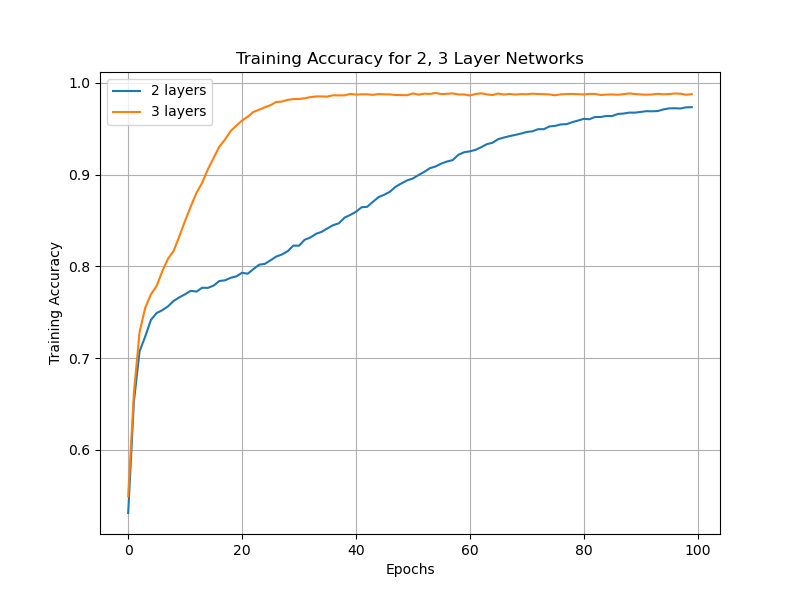
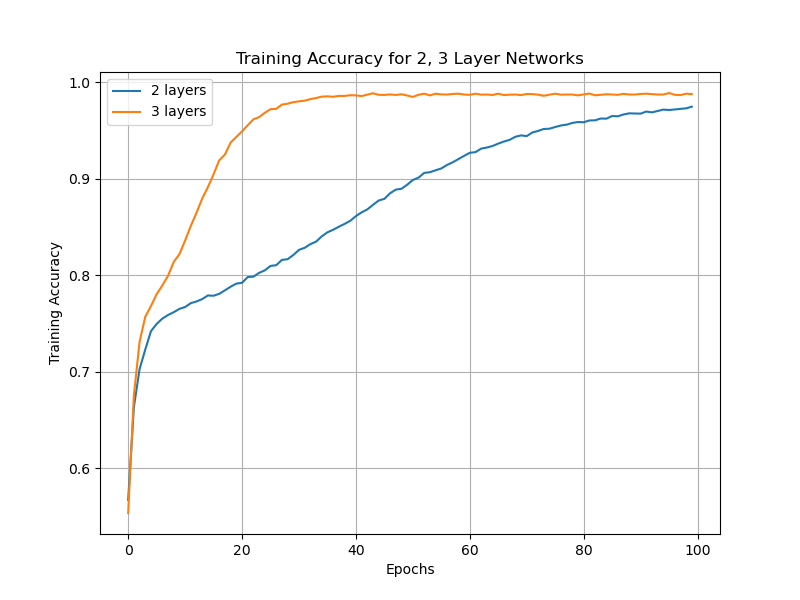
DAN Model implementaion

diff --git a/main.py b/main.py
@@ -11,7 +11,7 @@ import argparse
 import matplotlib.pyplot as plt
 from torch.utils.data import DataLoader
 from BOWmodels import SentimentDatasetBOW, NN2BOW, NN3BOW
-from DANmodels import SentimentDatasetDAN, NN1DAN
+from DANmodels import SentimentDatasetDAN, NN1DAN, NNcustomDAN
 
 
 # Training function
@@ -148,7 +148,7 @@ def main():
     elif args.model == "DAN":
         
         # Load word embeddings
-        word_embeddings = read_word_embeddings("data/glove.6B.50d-relativized.txt")
+        word_embeddings = read_word_embeddings("data/glove.6B.300d-relativized.txt")
         #word_embeddings = read_word_embeddings("data/glove.6B.300d-relativized.txt")
         
         train_data = SentimentDatasetDAN("data/train.txt", word_embeddings)
@@ -156,53 +156,13 @@ def main():
         train_loader = DataLoader(train_data, batch_size=16, shuffle=True)
         test_loader = DataLoader(dev_data, batch_size=16, shuffle=False)
         
-        print(train_data)
-        print(train_loader)
-        
-        # Train and evaluate NN1
+        # Train and evaluate NN
         start_time = time.time()
-        print('\n1 layer:')
-        nn1_train_accuracy, nn1_test_accuracy = experiment(NN1DAN(word_embeddings.get_embedding_length(), 100, 1, word_embeddings), train_loader, test_loader)
-
-
+        print('\n2 layers:')
+        nn1_train_accuracy, nn1_test_accuracy = experiment(NN1DAN(word_embeddings.get_embedding_length(), 200, 1, word_embeddings), train_loader, test_loader)
         
-        
-        
-        
-        
-        
-        
-        
-        
-        
-        
-        
-        
-        
-        
-        
-        '''
-        # Load word embeddings
-        word_embeddings = read_word_embeddings("data/glove.6B.50d-relativized.txt")
-        
-        # Create the dataset
-        train_data = SentimentDatasetDAN("data/train.txt", word_embeddings)
-        dev_data = SentimentDatasetDAN("data/dev.txt", word_embeddings)
-        
-        # Create DataLoaders
-        train_loader = DataLoader(train_data, batch_size=16, shuffle=True)
-        test_loader = DataLoader(dev_data, batch_size=16, shuffle=False)
-        
-        # Initialize the DAN model
-        model = NN1DAN(embedding_dim=word_embeddings.get_embedding_length(), hidden_dim=100, output_dim=1, word_embeddings=word_embeddings)
-
-        # Train and evaluate the DAN model
-        print('\nTraining DAN Model:')
-        dan_train_accuracy, dan_test_accuracy = experiment(model, train_loader, test_loader)
-
-        # Optionally plot training accuracy for DAN
         plt.figure(figsize=(8, 6))
-        plt.plot(dan_train_accuracy, label='DAN Training Accuracy')
+        plt.plot(nn1_train_accuracy, label='DAN Training Accuracy')
         plt.xlabel('Epochs')
         plt.ylabel('Training Accuracy')
         plt.title('Training Accuracy for DAN')
@@ -216,7 +176,7 @@ def main():
 
         # Plot the testing accuracy for DAN
         plt.figure(figsize=(8, 6))
-        plt.plot(dan_test_accuracy, label='DAN Testing Accuracy')
+        plt.plot(nn1_test_accuracy, label='DAN Testing Accuracy')
         plt.xlabel('Epochs')
         plt.ylabel('Dev Accuracy')
         plt.title('Dev Accuracy for DAN')
@@ -227,8 +187,49 @@ def main():
         dan_testing_accuracy_file = 'dan_dev_accuracy.png'
         plt.savefig(dan_testing_accuracy_file)
         print(f"DAN Dev accuracy plot saved as {dan_testing_accuracy_file}\n\n")
+                  
+    elif args.model == "SUBWORDDAN":
+        # Load word embeddings
+        word_embeddings = read_word_embeddings("data/glove.6B.300d-relativized.txt")
+        #word_embeddings = read_word_embeddings("data/glove.6B.300d-relativized.txt")
         
-        '''
+        train_data = SentimentDatasetDAN("data/train.txt", word_embeddings)
+        dev_data = SentimentDatasetDAN("data/dev.txt", word_embeddings)
+        train_loader = DataLoader(train_data, batch_size=16, shuffle=True)
+        test_loader = DataLoader(dev_data, batch_size=16, shuffle=False)
+        
+        # Train and evaluate NN
+        start_time = time.time()
+        print('\n3 layers:')
+        nn1_train_accuracy, nn1_test_accuracy = experiment(NNcustomDAN(word_embeddings.get_embedding_length(), 300, 1, word_embeddings), train_loader, test_loader)
+        
+        plt.figure(figsize=(8, 6))
+        plt.plot(nn1_train_accuracy, label='DAN Training Accuracy')
+        plt.xlabel('Epochs')
+        plt.ylabel('Training Accuracy')
+        plt.title('Training Accuracy for DAN')
+        plt.legend()
+        plt.grid()
+
+        # Save the training accuracy figure
+        dan_training_accuracy_file = 'dan_train_accuracy.png'
+        plt.savefig(dan_training_accuracy_file)
+        print(f"\n\nDAN Training accuracy plot saved as {dan_training_accuracy_file}")
+
+        # Plot the testing accuracy for DAN
+        plt.figure(figsize=(8, 6))
+        plt.plot(nn1_test_accuracy, label='DAN Testing Accuracy')
+        plt.xlabel('Epochs')
+        plt.ylabel('Dev Accuracy')
+        plt.title('Dev Accuracy for DAN')
+        plt.legend()
+        plt.grid()
+
+        # Save the testing accuracy figure
+        dan_testing_accuracy_file = 'dan_dev_accuracy.png'
+        plt.savefig(dan_testing_accuracy_file)
+        print(f"DAN Dev accuracy plot saved as {dan_testing_accuracy_file}\n\n")
+
 
 if __name__ == "__main__":
     main()

diff --git a/DANmodels.py b/DANmodels.py
@@ -8,10 +8,8 @@ from torch.utils.data import Dataset
 
 class SentimentDatasetDAN(Dataset):
     def __init__(self, infile, word_embeddings, train=True):
-        # Read the sentiment examples from the input file
         self.examples = read_sentiment_examples(infile)
         
-        # Extract sentences and labels from the examples
         self.sentences = [" ".join(ex.words) for ex in self.examples]
         self.labels = [ex.label for ex in self.examples]
         
@@ -19,19 +17,17 @@ class SentimentDatasetDAN(Dataset):
         for sentence in self.sentences:
             # Split sentence into words and get their embeddings
             sentence_vectors = []
-            for word in sentence.split():  # Split sentence into words
-                vector = word_embeddings.get_embedding(word)  # Get embedding for each word
-                sentence_vectors.append(vector)  # Append the vector to the list
+            for word in sentence.split():  
+                vector = word_embeddings.get_embedding(word)  
+                sentence_vectors.append(vector)  
 
-            # Convert the list of numpy arrays to a tensor
             stacked_vectors = torch.stack([torch.FloatTensor(vec) for vec in sentence_vectors])
             
             # Get the average of the word embeddings in the sentence
             sentence_embedding = torch.mean(stacked_vectors, dim=0)
             vectors.append(sentence_embedding)
 
-        # Convert list of sentence embeddings to tensor
-        self.embeddings = torch.stack(vectors)  # Shape: [num_sentences, embedding_dim]
+        self.embeddings = torch.stack(vectors) 
         self.labels = torch.tensor(self.labels)
         
     
@@ -46,19 +42,53 @@ class NN1DAN(nn.Module):
     def __init__(self, embedding_dim, hidden_dim, output_dim, word_embeddings):
         super().__init__()
         
-        # Initialize embedding layer using the GloVe embeddings
         self.embedding = word_embeddings.get_initialized_embedding_layer(frozen=True)
         
-        # Define the hidden layer
+        # hidden layer
         self.fc1 = nn.Linear(embedding_dim, hidden_dim)
         self.relu = nn.ReLU()
-        
-        # Define the output layer
-        self.fc2 = nn.Linear(hidden_dim, 2)
+        self.fc2 = nn.Linear(hidden_dim, hidden_dim)
+        self.relu = nn.ReLU()
+        # output layer
+        self.fc3 = nn.Linear(hidden_dim, 2)
         self.log_softmax = nn.LogSoftmax(dim=1)
         
     def forward(self, x):
         x = F.relu(self.fc1(x))
         x = self.relu(x)
         x = self.fc2(x)
+        x = self.relu(x)
+        x = self.fc3(x)
+        return self.log_softmax(x)
+    
+    
+    
+    
+    
+class NNcustomDAN(nn.Module):
+    def __init__(self, embedding_dim, hidden_dim, output_dim, word_embeddings):
+        super().__init__()
+        
+        self.embedding = word_embeddings.get_initialized_embedding_layer(frozen=True)
+        
+        # hidden layer
+        self.fc1 = nn.Linear(embedding_dim, hidden_dim)
+        self.relu = nn.ReLU()
+        self.fc2 = nn.Linear(hidden_dim, hidden_dim)
+        self.relu = nn.ReLU()
+        self.fc3 = nn.Linear(hidden_dim, hidden_dim)
+        self.relu = nn.ReLU()
+        
+        # output layer
+        self.fc4 = nn.Linear(hidden_dim, 2)
+        self.log_softmax = nn.LogSoftmax(dim=1)
+        
+    def forward(self, x):
+        x = F.relu(self.fc1(x))
+        x = self.relu(x)
+        x = self.fc2(x)
+        x = self.relu(x)
+        x = self.fc3(x)
+        x = self.relu(x)
+        x = self.fc4(x)
         return self.log_softmax(x)

diff --git a/readme.md b/readme.md
@@ -1,0 +1,81 @@
+# CSE 156 PA1: Movie Review Sentiment Analyzer using a DAN with feedforwarding neural network
+
+This repository contains a Deep Averaging Network (DAN) for sentiment analysis on movie reviews, utilizing GloVe word embeddings. The model is implemented using PyTorch and aims to classify movie reviews as positive or negative.
+
+## How to Run
+
+To run the different models available in the repository, follow these instructions:
+
+1. **Part 2a - DAN (Deep Averaging Network):**
+   ```bash
+   python main.py --model DAN
+```
+
+2. **Part 2b - Custom Embeddings DAN:**
+```bash
+    python main.py --model SUBWORDDAN
+```
+
+3. **Bag of Words:**
+```bash
+    python main.py --model BOW
+```
+
+## Overview
+
+The DAN model works by averaging the word embeddings in a sentence to produce a fixed-size vector representation. This vector is then passed through a feedforward neural network for sentiment classification.
+
+## Model Architecture
+
+- **Word Embeddings:** GloVe embeddings (`glove.6B.300d-relativized.txt`).
+- **Embedding Dimension:** 300.
+- **Hidden Layers:** 2 hidden layers, each with 200 dimensions.
+- **Activation Function:** ReLU.
+- **Output Layer:** LogSoftmax for binary classification (positive/negative).
+
+## Training Details
+
+- **Optimizer:** ReLU.
+- **Accuracy:** The model achieves over 77% accuracy on the test set.
+
+## Dependencies
+
+Ensure you have the following dependencies installed (virtual environment recommended):
+- Python 3.x
+- PyTorch
+- scikit-learn
+- NumPy
+- pandas
+
+## DAN Model Overview
+
+### SentimentDatasetDAN Class
+
+The `SentimentDatasetDAN` class - It takes in a file containing sentiment examples and word embeddings (e.g., GloVe). The key steps in this class are:
+
+- **Initialization (`__init__` method):**
+  - Reads sentiment examples from a file.
+  - Constructs sentences and labels from the examples.
+  - For each word in the sentence, retrieves its corresponding embedding vector using the provided word embeddings.
+  - Stacks and averages these vectors to create a single embedding for the sentence.
+  - Converts all sentence embeddings and labels to PyTorch tensors.
+
+- **Length (`__len__` method):**
+  - Returns the number of examples in the dataset.
+
+- **Item Retrieval (`__getitem__` method):**
+  - Returns the sentence embedding and its corresponding label for a given index.
+
+### NN1DAN Class
+
+The `NN1DAN` class defines a neural network model for sentiment analysis using a Deep Averaging Network (DAN). This PyTorch `nn.Module` takes averaged sentence embeddings as input and passes them through a feedforward neural network with two hidden layers.
+
+- **Initialization (`__init__` method):**
+  - Sets up an embedding layer using the provided word embeddings (frozen for efficiency).
+  - Defines two hidden layers (`fc1` and `fc2`) and an output layer (`fc3`) using linear layers.
+  - Uses `ReLU` activation functions between layers and a `LogSoftmax` function for output.
+
+- **Forward Pass (`forward` method):**
+  - Applies the first hidden layer, followed by `ReLU` activation.
+  - Passes the result through a second hidden layer, again using `ReLU`.
+  - Finally, the output layer generates a log-probability distribution over the sentiment classes.
